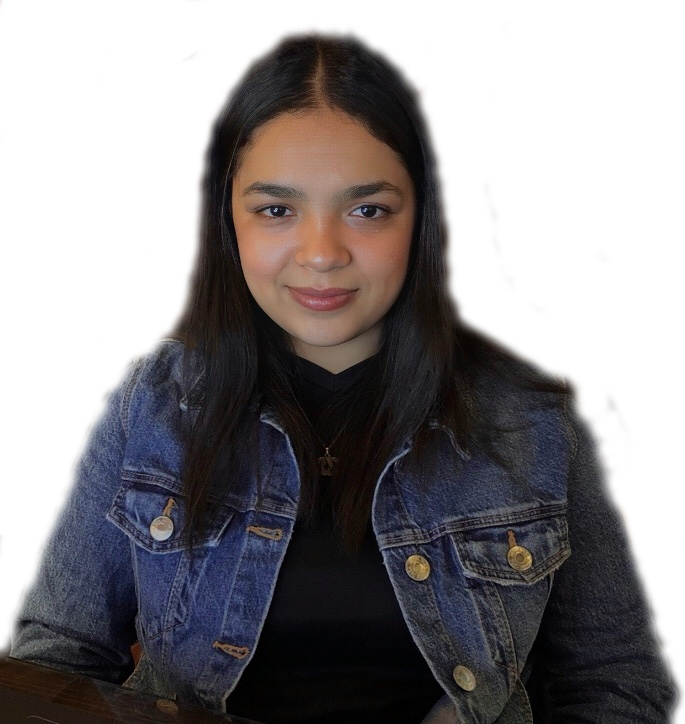
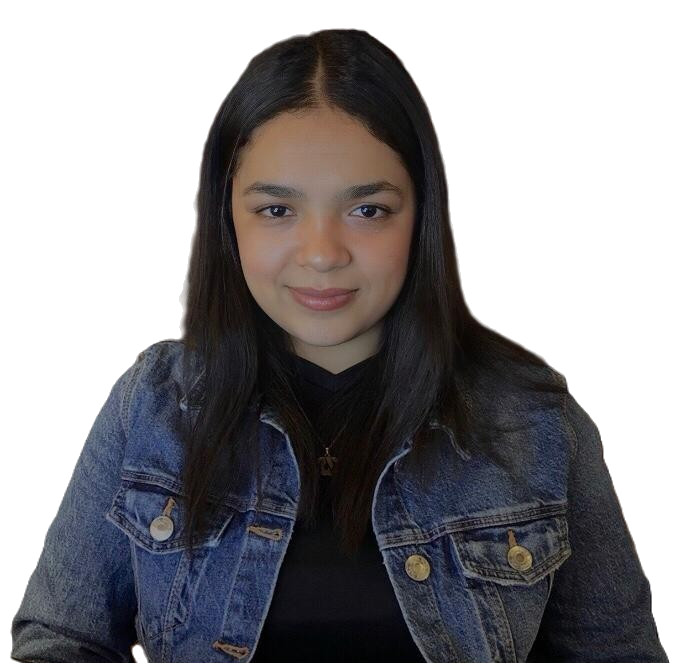
last update

Changed region(s): [[0.0, 0.0302, 1.0, 1.0], [0.8277, 0.9653, 0.9197, 1.0]]

diff --git a/src/components/AboutMe.jsx b/src/components/AboutMe.jsx
@@ -3,7 +3,7 @@ import React from "react";
 const AboutMe = () => {
   return (
     <section id="about" >
-      <img src="me.png  " alt="me"></img>
+      <img src="ME.png  " alt="me"></img>
 
       <div className="x"> 
       
